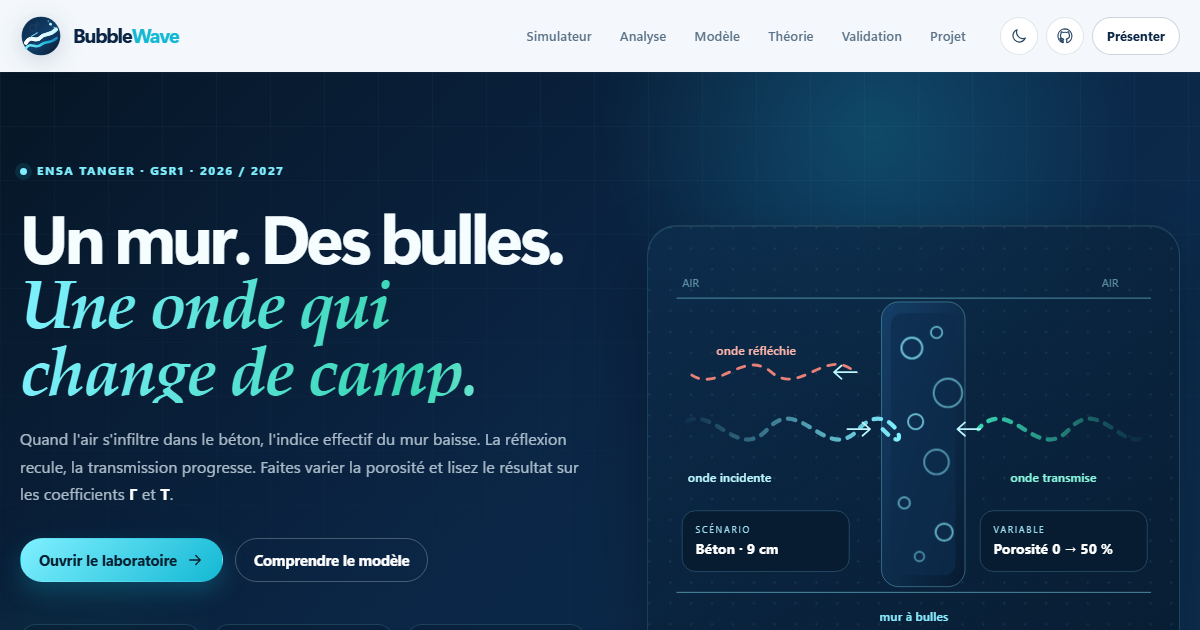
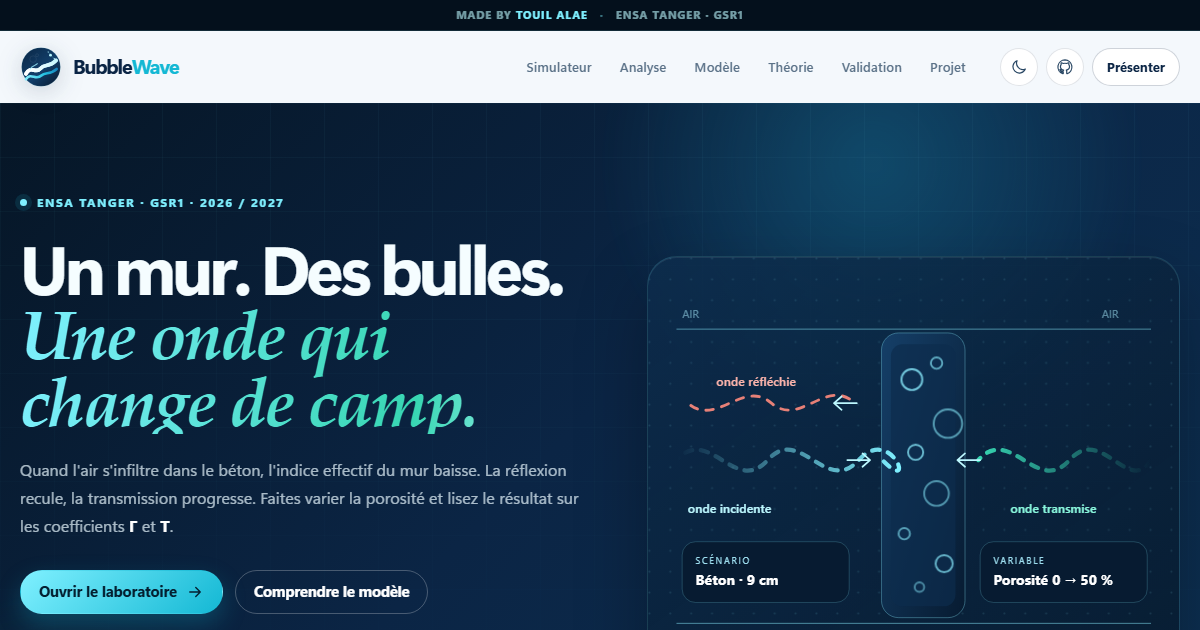
Ajout de la signature Touil Alae et du bandeau auteur

diff --git a/site/index.html b/site/index.html
@@ -9,6 +9,7 @@
     />
     <link rel="canonical" href="https://alae35846.github.io/BubbleWave/" />
     <meta name="theme-color" content="#0b2545" />
+    <meta name="author" content="Touil Alae" />
     <script>
       try {
         const savedTheme = localStorage.getItem("bubblewave-theme");
@@ -44,6 +45,11 @@
   </head>
   <body id="top">
     <a class="skip-link" href="#simulateur">Aller directement au simulateur</a>
+
+    <div class="top-credit">
+      <span>Made by <strong>Touil Alae</strong></span>
+      <span>ENSA Tanger · GSR1</span>
+    </div>
 
     <header class="site-header" id="site-header">
       <a class="brand" href="#top" aria-label="BubbleWave, retour en haut">
@@ -731,6 +737,7 @@
               sert à explorer le modèle.
             </p>
             <div class="about-facts">
+              <div><span>Auteur</span><strong>Touil Alae</strong></div>
               <div><span>Module</span><strong>Propagation dans les milieux</strong></div>
               <div><span>Filière</span><strong>GSR1 — ENSA Tanger</strong></div>
               <div><span>Année</span><strong>2026 / 2027</strong></div>

diff --git a/site/assets/css/styles.css b/site/assets/css/styles.css
@@ -407,6 +407,35 @@ output,
    Header
    ========================================================================== */
 
+.top-credit {
+  display: flex;
+  flex-wrap: wrap;
+  align-items: center;
+  justify-content: center;
+  gap: 6px 12px;
+  padding: 8px 16px;
+  border-bottom: 1px solid rgba(127, 240, 255, 0.12);
+  background: #04101c;
+  color: rgba(189, 248, 255, 0.62);
+  font-size: 0.66rem;
+  font-weight: 700;
+  letter-spacing: 0.12em;
+  line-height: 1.35;
+  text-align: center;
+  text-transform: uppercase;
+}
+
+.top-credit strong {
+  color: #7ff0ff;
+  font-weight: 800;
+}
+
+.top-credit span + span::before {
+  content: "·";
+  margin-right: 12px;
+  color: rgba(127, 240, 255, 0.45);
+}
+
 .site-header {
   position: sticky;
   top: 0;
@@ -2965,6 +2994,17 @@ body.is-presenting .lab-grid {
     width: 100%;
     padding-inline: 8px;
     font-size: 0.7rem;
+  }
+
+  .top-credit {
+    gap: 4px 8px;
+    padding: 7px 12px;
+    font-size: 0.6rem;
+    letter-spacing: 0.08em;
+  }
+
+  .top-credit span + span::before {
+    margin-right: 8px;
   }
 
   .hero-inner {

diff --git a/site/assets/js/config.js b/site/assets/js/config.js
@@ -48,8 +48,8 @@ export const SITE = Object.freeze({
   course: "Propagation dans les milieux — GSR1",
   school: "ENSA Tanger",
   year: "2026 / 2027",
-  // Laissez vide pour masquer la ligne « réalisé par ».
-  author: "",
+  // Auteur du projet.
+  author: "Touil Alae",
   // URL complète du dépôt GitHub. Laissez vide pour masquer les liens.
   github: "https://github.com/alae35846/BubbleWave",
   email: "",

diff --git a/README.md b/README.md
@@ -2,6 +2,8 @@
 
 **Propagation d'ondes électromagnétiques dans un mur en béton à bulles.**
 
+**Auteur : Touil Alae** — ENSA Tanger, filière GSR1, 2026 / 2027.
+
 Un simulateur pédagogique interactif : un mur de béton sec de **9,0 cm**, des bulles d'air dont on fait varier la **porosité**, et une onde plane qui arrive dessus à une fréquence, un angle et une polarisation réglables.
 
 Le site calcule en temps réel les coefficients de réflexion **R**, de transmission **T** et d'absorption **A**, trace les courbes associées et montre le champ électrique à l'intérieur de la paroi.
@@ -104,4 +106,4 @@ Ce simulateur ne constitue pas un outil de dimensionnement ou de certification.
 
 ---
 
-Projet pédagogique — ENSA Tanger, filière GSR1, 2026 / 2027.
+Projet pédagogique de **Touil Alae** — ENSA Tanger, filière GSR1, 2026 / 2027.
